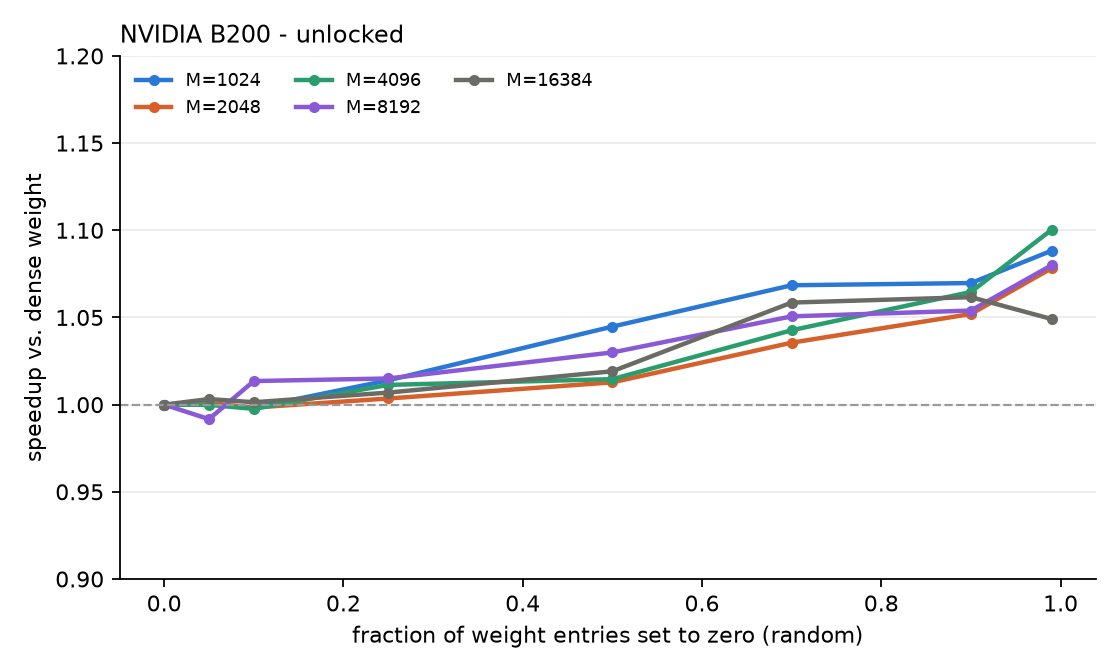
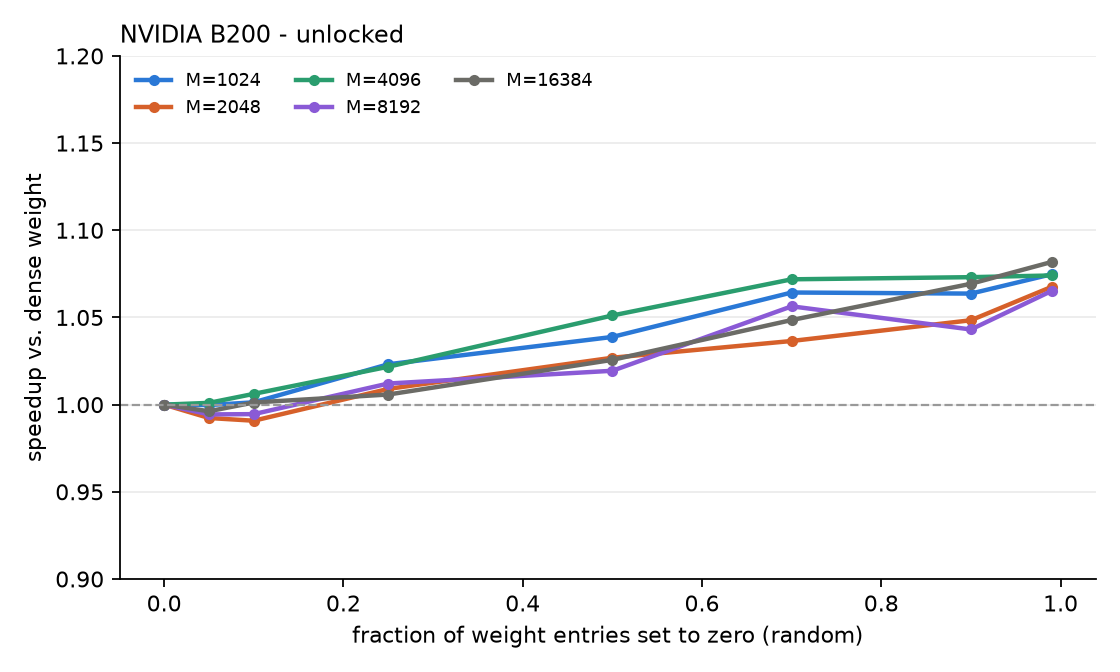
Post: update tables and numbers for exact-sparsity rerun

Changed region(s): [[0.1562, 0.3438, 0.9688, 0.6562]]

diff --git a/_posts/2026-10-02-sparse-matmul-speedup.md b/_posts/2026-10-02-sparse-matmul-speedup.md
@@ -22,7 +22,7 @@ _The code and raw results are available [here](https://github.com/GeometricAGI/b
 ### Setup
 
 - `x @ w` in bf16 with `w` of shape 8192x8192 and `x` of shape `M x 8192`, run with plain `torch.matmul` (cuBLAS). No sparse kernels are involved; the zeros are stored densely.
-- We set a fraction of `w` to zero (5%, 10%, 25%, 50%, 70%, 90%, 99%), chosen uniformly at random. Pruning by magnitude instead gives similar numbers and is in the repo. Everything below is "speedup over the dense weight", i.e. dense time divided by time with zeros, so values above 1.000 mean faster than dense.
+- We set exactly that fraction of `w` to zero (5%, 10%, 25%, 50%, 70%, 90%, 99%), at positions chosen uniformly at random; the measured zero fraction matches to within 2e-7 and is stored in the results. Magnitude pruning (zeroing the smallest-magnitude weights) is also in the repo; it agrees at 99% zeros, but at 5% it is consistently faster than random zeroing on both GPUs (about 1.05-1.10x), which we have not explained, so we only tabulate random zeroing here. Everything below is "speedup over the dense weight", i.e. dense time divided by time with zeros, so values above 1.000 mean faster than dense.
 - Matmuls are captured in a CUDA graph and timed over replays. Every config is timed in 5 interleaved rounds (alternating order) and we report the median, so drift hits every config equally.
 - `M` is swept over 1024, 2048, 4096, 8192 and 16384. In an exploratory run on the H100 with smaller `M` (1, 16 and 128 rows) the matmul is memory-bound and sparsity made no difference (within 0.5%), so we start the published sweep at 1024.
 - Each GPU is run with free-running clocks and with the SM clock locked (`nvidia-smi -lgc`) at six values: 1000, 1200, 1400, 1600, 1800 MHz and the GPU's maximum (1980 MHz on the H100, 1965 MHz on the B200).
@@ -33,16 +33,16 @@ Speedup with 99% of the weights zeroed, free-running clocks:
 
 | | M=1024 | M=2048 | M=4096 | M=8192 | M=16384 |
 |---|---|---|---|---|---|
-| H100 | 1.184 | 1.113 | 1.104 | 1.077 | 1.129 |
-| B200 | 1.088 | 1.078 | 1.100 | 1.080 | 1.049 |
+| H100 | 1.206 | 1.149 | 1.112 | 1.092 | 1.111 |
+| B200 | 1.075 | 1.068 | 1.074 | 1.065 | 1.082 |
 
 ![H100, free-running clocks](/assets/sparse-matmul-speedup/h100-unlocked.png)
 
 ![B200, free-running clocks](/assets/sparse-matmul-speedup/b200-unlocked.png)
 
-- Speedup generally grows with the amount of zeros, up to about **1.18x on the H100 and 1.12x on the B200**.
-- At realistic sparsity (5-25%) the effect is mostly inside the run-to-run noise. On the H100 at `M=16384`, 5-50% zeros was 3-6% **slower** than dense.
-- The curves are noisy, so treat differences of a few percent between neighbouring points as noise.
+- Speedup generally grows with the amount of zeros, up to about **1.21x on the H100 and 1.08x on the B200**.
+- At realistic sparsity (5-25%) the effect is mostly inside the run-to-run noise. On the H100 at `M=16384`, 5-50% zeros was 3-7% **slower** than dense.
+- Differences of a couple of percent between neighbouring points are within run-to-run noise.
 
 ### Locked clocks: the speedup depends on the lock
 
@@ -52,33 +52,32 @@ Speedup with 99% zeros for each locked SM clock (the first row is the free-runni
 
 | SM clock | M=1024 | M=2048 | M=4096 | M=8192 | M=16384 |
 |---|---|---|---|---|---|
-| free-running | 1.184 | 1.113 | 1.104 | 1.077 | 1.129 |
-| 1000 MHz | 1.000 | 1.000 | 1.000 | 1.000 | 1.000 |
+| free-running | 1.206 | 1.149 | 1.112 | 1.092 | 1.111 |
+| 1000 MHz | 1.000 | 1.000 | 1.000 | 1.000 | 1.001 |
 | 1200 MHz | 1.000 | 1.001 | 1.000 | 1.000 | 1.000 |
-| 1400 MHz | 1.001 | 1.016 | 1.076 | 1.022 | 1.048 |
-| 1600 MHz | 1.165 | 1.147 | 1.116 | 1.100 | 1.157 |
-| 1800 MHz | 1.157 | 1.124 | 1.112 | 1.108 | 1.159 |
-| 1980 MHz | 1.163 | 1.145 | 1.113 | 1.108 | 1.142 |
+| 1400 MHz | 1.000 | 1.001 | 1.024 | 1.001 | 1.050 |
+| 1600 MHz | 1.175 | 1.152 | 1.136 | 1.120 | 1.162 |
+| 1800 MHz | 1.196 | 1.147 | 1.122 | 1.113 | 1.162 |
+| 1980 MHz | 1.189 | 1.155 | 1.139 | 1.101 | 1.160 |
 
 **B200**
 
 | SM clock | M=1024 | M=2048 | M=4096 | M=8192 | M=16384 |
 |---|---|---|---|---|---|
-| free-running | 1.088 | 1.078 | 1.100 | 1.080 | 1.049 |
-| 1000 MHz | 1.004 | 1.007 | 1.000 | 1.003 | 1.003 |
-| 1200 MHz | 1.002 | 1.002 | 1.026 | 1.021 | 1.029 |
-| 1400 MHz | 1.063 | 1.068 | 1.067 | 1.064 | 1.064 |
-| 1600 MHz | 1.068 | 1.090 | 1.069 | 1.050 | 1.078 |
-| 1800 MHz | 1.044 | 1.064 | 1.082 | 1.068 | 1.073 |
-| 1965 MHz | 1.081 | 1.071 | 1.068 | 1.071 | 1.076 |
+| free-running | 1.075 | 1.068 | 1.074 | 1.065 | 1.082 |
+| 1000 MHz | 1.012 | 1.008 | 1.006 | 1.001 | 0.999 |
+| 1200 MHz | 1.002 | 1.003 | 1.000 | 1.001 | 1.000 |
+| 1400 MHz | 1.044 | 1.063 | 1.051 | 1.070 | 1.099 |
+| 1600 MHz | 1.063 | 1.085 | 1.097 | 1.068 | 1.075 |
+| 1800 MHz | 1.099 | 1.069 | 1.072 | 1.090 | 1.053 |
+| 1965 MHz | 1.109 | 1.076 | 1.083 | 1.100 | 1.072 |
 
 ![H100, speedup vs. locked clock](/assets/sparse-matmul-speedup/h100-clock_sweep.png)
 
 ![B200, speedup vs. locked clock](/assets/sparse-matmul-speedup/b200-clock_sweep.png)
 
-- **Low locks: no effect.** At 1000 and 1200 MHz the H100 is within 0.1% of dense for every `M` and every sparsity level. The B200 is within 0.7% at 1000 MHz. The GPU holds the requested clock, so the work takes the same time whatever is in the weights.
-- **High locks: the speedup comes back.** On the H100 it is partly back at 1400 MHz (1.00-1.08x) and fully back, at its free-running size, from 1600 MHz up. On the B200 it is back from 1400 MHz. Above that the lock stops being the binding constraint: dense runs reach only 1260-1400 MHz on the H100 and 1155-1400 MHz on the B200 no matter how high we set the lock, because the power limit decides the clock. Sparser weights draw less power, so they sustain a somewhat higher clock.
-- **B200 at 1200 MHz is in between.** Speedup is 1.00-1.03x for the larger shapes, so this lock sits right at the edge of what it can sustain.
+- **Low locks: no effect.** At 1000 and 1200 MHz the H100 is within 0.1% of dense for every `M` and every sparsity level. The B200 is within 1.2% at 1000 MHz and 0.3% at 1200 MHz. The GPU holds the requested clock, so the work takes the same time whatever is in the weights.
+- **High locks: the speedup comes back.** On the H100 it is partly back at 1400 MHz (1.00-1.05x) and fully back, at its free-running size, from 1600 MHz up. On the B200 it is back from 1400 MHz. Above that the lock stops being the binding constraint: dense runs reach only 1260-1410 MHz on the H100 and 1155-1402 MHz on the B200 no matter how high we set the lock, because the power limit decides the clock. Sparser weights draw less power, so they sustain a somewhat higher clock.
 - A clock lock is therefore only a control if it is set below the clock the GPU would sustain at its power limit for that workload.
 
 ### Full results
@@ -89,11 +88,11 @@ The tables below give the speedup for every `M` and sparsity level for each cloc
 
 | M | 5% | 10% | 25% | 50% | 70% | 90% | 99% |
 |---|---|---|---|---|---|---|---|
-| 1024 | 1.028 | 1.032 | 1.040 | 1.083 | 1.126 | 1.171 | 1.184 |
-| 2048 | 0.991 | 0.988 | 0.993 | 1.001 | 1.032 | 1.102 | 1.113 |
-| 4096 | 0.998 | 0.987 | 0.962 | 0.992 | 1.013 | 1.066 | 1.104 |
-| 8192 | 0.995 | 0.986 | 1.005 | 1.011 | 1.045 | 1.091 | 1.077 |
-| 16384 | 0.965 | 0.944 | 0.944 | 0.967 | 1.021 | 1.089 | 1.129 |
+| 1024 | 1.033 | 1.033 | 1.058 | 1.109 | 1.158 | 1.187 | 1.206 |
+| 2048 | 0.992 | 0.992 | 1.001 | 1.027 | 1.056 | 1.115 | 1.149 |
+| 4096 | 0.990 | 0.987 | 0.992 | 0.992 | 1.017 | 1.099 | 1.112 |
+| 8192 | 1.007 | 1.000 | 1.018 | 1.022 | 1.029 | 1.086 | 1.092 |
+| 16384 | 0.942 | 0.926 | 0.928 | 0.969 | 1.001 | 1.083 | 1.111 |
 
 </details>
 
@@ -101,11 +100,11 @@ The tables below give the speedup for every `M` and sparsity level for each cloc
 
 | M | 5% | 10% | 25% | 50% | 70% | 90% | 99% |
 |---|---|---|---|---|---|---|---|
-| 1024 | 1.000 | 1.000 | 1.000 | 1.000 | 1.000 | 1.000 | 1.000 |
+| 1024 | 1.000 | 1.000 | 1.000 | 1.000 | 1.000 | 1.001 | 1.000 |
 | 2048 | 1.000 | 1.000 | 1.000 | 1.000 | 1.000 | 1.000 | 1.000 |
 | 4096 | 1.000 | 1.000 | 1.000 | 1.000 | 1.000 | 1.000 | 1.000 |
 | 8192 | 1.000 | 1.000 | 1.000 | 1.000 | 1.000 | 1.000 | 1.000 |
-| 16384 | 1.000 | 1.000 | 0.999 | 0.999 | 1.000 | 1.000 | 1.000 |
+| 16384 | 1.000 | 1.000 | 1.000 | 1.001 | 1.000 | 1.001 | 1.001 |
 
 </details>
 
@@ -113,11 +112,11 @@ The tables below give the speedup for every `M` and sparsity level for each cloc
 
 | M | 5% | 10% | 25% | 50% | 70% | 90% | 99% |
 |---|---|---|---|---|---|---|---|
-| 1024 | 1.000 | 0.999 | 1.000 | 1.000 | 1.000 | 1.000 | 1.000 |
-| 2048 | 1.000 | 1.000 | 1.000 | 1.000 | 1.000 | 1.000 | 1.001 |
+| 1024 | 1.000 | 1.000 | 1.000 | 1.000 | 1.000 | 1.001 | 1.000 |
+| 2048 | 1.001 | 1.001 | 1.001 | 1.001 | 1.001 | 1.001 | 1.001 |
 | 4096 | 1.000 | 1.000 | 1.000 | 1.000 | 1.000 | 1.000 | 1.000 |
 | 8192 | 1.000 | 1.000 | 1.000 | 1.000 | 1.000 | 1.000 | 1.000 |
-| 16384 | 1.000 | 1.000 | 1.000 | 1.000 | 1.000 | 1.000 | 1.000 |
+| 16384 | 1.000 | 1.000 | 1.000 | 1.000 | 1.000 | 1.001 | 1.000 |
 
 </details>
 
@@ -125,11 +124,11 @@ The tables below give the speedup for every `M` and sparsity level for each cloc
 
 | M | 5% | 10% | 25% | 50% | 70% | 90% | 99% |
 |---|---|---|---|---|---|---|---|
-| 1024 | 1.000 | 1.001 | 0.997 | 1.000 | 1.001 | 1.001 | 1.001 |
-| 2048 | 1.016 | 1.012 | 1.011 | 1.016 | 1.016 | 1.016 | 1.016 |
-| 4096 | 1.049 | 1.075 | 1.075 | 1.075 | 1.076 | 1.076 | 1.076 |
-| 8192 | 1.021 | 1.018 | 1.016 | 1.010 | 1.022 | 1.022 | 1.022 |
-| 16384 | 1.011 | 1.016 | 1.030 | 0.998 | 1.034 | 1.048 | 1.048 |
+| 1024 | 1.000 | 1.000 | 1.000 | 1.000 | 1.000 | 1.001 | 1.000 |
+| 2048 | 0.998 | 0.998 | 0.999 | 1.000 | 1.001 | 1.001 | 1.001 |
+| 4096 | 1.024 | 1.024 | 1.024 | 1.024 | 1.024 | 1.024 | 1.024 |
+| 8192 | 1.001 | 1.001 | 1.001 | 1.001 | 1.001 | 1.001 | 1.001 |
+| 16384 | 1.016 | 1.027 | 1.035 | 1.004 | 1.044 | 1.051 | 1.050 |
 
 </details>
 
@@ -137,11 +136,11 @@ The tables below give the speedup for every `M` and sparsity level for each cloc
 
 | M | 5% | 10% | 25% | 50% | 70% | 90% | 99% |
 |---|---|---|---|---|---|---|---|
-| 1024 | 0.992 | 1.009 | 1.012 | 1.058 | 1.103 | 1.131 | 1.165 |
-| 2048 | 1.006 | 0.991 | 0.997 | 1.035 | 1.061 | 1.120 | 1.147 |
-| 4096 | 0.981 | 0.996 | 0.990 | 1.000 | 1.026 | 1.089 | 1.116 |
-| 8192 | 0.998 | 0.968 | 0.987 | 1.010 | 1.050 | 1.106 | 1.100 |
-| 16384 | 0.967 | 0.954 | 0.953 | 0.971 | 1.033 | 1.101 | 1.157 |
+| 1024 | 1.012 | 1.012 | 1.024 | 1.061 | 1.130 | 1.158 | 1.175 |
+| 2048 | 0.998 | 0.985 | 0.991 | 1.018 | 1.039 | 1.129 | 1.152 |
+| 4096 | 0.990 | 0.984 | 0.993 | 1.011 | 1.038 | 1.130 | 1.136 |
+| 8192 | 0.997 | 0.989 | 1.002 | 1.013 | 1.055 | 1.123 | 1.120 |
+| 16384 | 0.969 | 0.956 | 0.956 | 0.991 | 1.028 | 1.129 | 1.162 |
 
 </details>
 
@@ -149,11 +148,11 @@ The tables below give the speedup for every `M` and sparsity level for each cloc
 
 | M | 5% | 10% | 25% | 50% | 70% | 90% | 99% |
 |---|---|---|---|---|---|---|---|
-| 1024 | 1.012 | 1.013 | 1.003 | 1.030 | 1.092 | 1.120 | 1.157 |
-| 2048 | 0.991 | 0.964 | 0.986 | 1.003 | 1.041 | 1.108 | 1.124 |
-| 4096 | 0.988 | 0.969 | 0.959 | 1.002 | 1.028 | 1.086 | 1.112 |
-| 8192 | 0.990 | 0.972 | 1.005 | 1.016 | 1.060 | 1.108 | 1.108 |
-| 16384 | 0.974 | 0.953 | 0.955 | 0.972 | 1.027 | 1.113 | 1.159 |
+| 1024 | 1.007 | 1.032 | 1.054 | 1.087 | 1.120 | 1.175 | 1.196 |
+| 2048 | 0.984 | 0.984 | 0.990 | 1.015 | 1.033 | 1.128 | 1.147 |
+| 4096 | 1.002 | 1.002 | 1.001 | 1.007 | 1.034 | 1.119 | 1.122 |
+| 8192 | 0.999 | 0.998 | 1.005 | 1.041 | 1.044 | 1.105 | 1.113 |
+| 16384 | 0.971 | 0.951 | 0.956 | 0.973 | 1.027 | 1.124 | 1.162 |
 
 </details>
 
@@ -161,11 +160,11 @@ The tables below give the speedup for every `M` and sparsity level for each cloc
 
 | M | 5% | 10% | 25% | 50% | 70% | 90% | 99% |
 |---|---|---|---|---|---|---|---|
-| 1024 | 1.001 | 1.017 | 1.020 | 1.046 | 1.101 | 1.135 | 1.163 |
-| 2048 | 0.996 | 0.994 | 0.994 | 1.020 | 1.049 | 1.118 | 1.145 |
-| 4096 | 0.988 | 0.968 | 0.981 | 1.006 | 1.045 | 1.101 | 1.113 |
-| 8192 | 0.975 | 0.987 | 0.999 | 1.006 | 1.046 | 1.107 | 1.108 |
-| 16384 | 0.955 | 0.948 | 0.948 | 0.947 | 1.030 | 1.101 | 1.142 |
+| 1024 | 1.009 | 1.021 | 1.040 | 1.085 | 1.115 | 1.163 | 1.189 |
+| 2048 | 0.993 | 0.994 | 1.002 | 1.028 | 1.045 | 1.134 | 1.155 |
+| 4096 | 1.000 | 0.991 | 0.996 | 1.006 | 1.033 | 1.115 | 1.139 |
+| 8192 | 1.014 | 1.012 | 1.020 | 1.026 | 1.061 | 1.134 | 1.101 |
+| 16384 | 0.967 | 0.947 | 0.957 | 0.977 | 1.030 | 1.119 | 1.160 |
 
 </details>
 
@@ -173,11 +172,11 @@ The tables below give the speedup for every `M` and sparsity level for each cloc
 
 | M | 5% | 10% | 25% | 50% | 70% | 90% | 99% |
 |---|---|---|---|---|---|---|---|
-| 1024 | 1.000 | 0.998 | 1.014 | 1.045 | 1.068 | 1.070 | 1.088 |
-| 2048 | 1.001 | 0.998 | 1.004 | 1.013 | 1.036 | 1.052 | 1.078 |
-| 4096 | 1.000 | 0.998 | 1.011 | 1.015 | 1.043 | 1.065 | 1.100 |
-| 8192 | 0.992 | 1.014 | 1.015 | 1.030 | 1.051 | 1.054 | 1.080 |
-| 16384 | 1.003 | 1.001 | 1.007 | 1.019 | 1.059 | 1.062 | 1.049 |
+| 1024 | 1.000 | 1.001 | 1.023 | 1.039 | 1.064 | 1.064 | 1.075 |
+| 2048 | 0.992 | 0.991 | 1.009 | 1.027 | 1.037 | 1.048 | 1.068 |
+| 4096 | 1.001 | 1.006 | 1.022 | 1.051 | 1.072 | 1.073 | 1.074 |
+| 8192 | 0.994 | 0.995 | 1.012 | 1.019 | 1.056 | 1.043 | 1.065 |
+| 16384 | 0.996 | 1.001 | 1.006 | 1.026 | 1.049 | 1.069 | 1.082 |
 
 </details>
 
@@ -185,11 +184,11 @@ The tables below give the speedup for every `M` and sparsity level for each cloc
 
 | M | 5% | 10% | 25% | 50% | 70% | 90% | 99% |
 |---|---|---|---|---|---|---|---|
-| 1024 | 1.000 | 1.001 | 1.002 | 1.002 | 1.003 | 1.004 | 1.004 |
-| 2048 | 0.999 | 1.000 | 1.001 | 1.003 | 1.005 | 1.006 | 1.007 |
-| 4096 | 0.999 | 0.999 | 0.999 | 0.999 | 0.999 | 1.000 | 1.000 |
-| 8192 | 1.000 | 1.000 | 1.001 | 1.001 | 1.002 | 1.002 | 1.003 |
-| 16384 | 0.999 | 1.000 | 1.000 | 1.003 | 1.003 | 1.003 | 1.003 |
+| 1024 | 1.000 | 1.001 | 1.001 | 1.004 | 1.007 | 1.011 | 1.012 |
+| 2048 | 1.000 | 1.000 | 1.001 | 1.002 | 1.005 | 1.008 | 1.008 |
+| 4096 | 1.000 | 1.000 | 1.001 | 1.001 | 1.003 | 1.005 | 1.006 |
+| 8192 | 1.000 | 1.000 | 1.000 | 1.001 | 1.002 | 1.001 | 1.001 |
+| 16384 | 1.000 | 1.000 | 1.000 | 1.001 | 1.001 | 0.999 | 0.999 |
 
 </details>
 
@@ -197,11 +196,11 @@ The tables below give the speedup for every `M` and sparsity level for each cloc
 
 | M | 5% | 10% | 25% | 50% | 70% | 90% | 99% |
 |---|---|---|---|---|---|---|---|
-| 1024 | 1.000 | 1.000 | 1.001 | 1.001 | 1.002 | 1.002 | 1.002 |
-| 2048 | 1.000 | 1.000 | 1.000 | 1.001 | 1.001 | 1.002 | 1.002 |
-| 4096 | 1.019 | 1.026 | 1.026 | 1.026 | 1.026 | 1.026 | 1.026 |
-| 8192 | 1.020 | 1.021 | 1.020 | 1.021 | 1.021 | 1.021 | 1.021 |
-| 16384 | 1.021 | 1.013 | 1.024 | 1.029 | 1.029 | 1.029 | 1.029 |
+| 1024 | 1.001 | 0.999 | 0.999 | 1.000 | 1.000 | 1.002 | 1.002 |
+| 2048 | 1.000 | 1.000 | 1.001 | 1.001 | 1.002 | 1.003 | 1.003 |
+| 4096 | 1.000 | 1.000 | 1.000 | 1.000 | 1.000 | 1.000 | 1.000 |
+| 8192 | 1.000 | 1.000 | 1.000 | 1.000 | 1.000 | 1.001 | 1.001 |
+| 16384 | 1.000 | 1.000 | 1.000 | 1.000 | 1.000 | 1.000 | 1.000 |
 
 </details>
 
@@ -209,11 +208,11 @@ The tables below give the speedup for every `M` and sparsity level for each cloc
 
 | M | 5% | 10% | 25% | 50% | 70% | 90% | 99% |
 |---|---|---|---|---|---|---|---|
-| 1024 | 1.001 | 1.015 | 1.040 | 1.047 | 1.062 | 1.057 | 1.063 |
-| 2048 | 1.007 | 1.004 | 1.009 | 1.042 | 1.047 | 1.059 | 1.068 |
-| 4096 | 1.017 | 1.019 | 1.020 | 1.036 | 1.088 | 1.072 | 1.067 |
-| 8192 | 1.012 | 0.992 | 1.034 | 1.027 | 1.051 | 1.059 | 1.064 |
-| 16384 | 1.001 | 0.989 | 1.008 | 1.023 | 1.043 | 1.057 | 1.064 |
+| 1024 | 1.020 | 1.041 | 1.042 | 1.042 | 1.043 | 1.044 | 1.044 |
+| 2048 | 1.017 | 1.013 | 1.019 | 1.025 | 1.043 | 1.059 | 1.063 |
+| 4096 | 0.999 | 1.000 | 1.012 | 1.019 | 1.044 | 1.068 | 1.051 |
+| 8192 | 1.022 | 1.073 | 1.029 | 1.041 | 1.068 | 1.067 | 1.070 |
+| 16384 | 1.000 | 1.005 | 1.014 | 1.022 | 1.033 | 1.054 | 1.099 |
 
 </details>
 
@@ -221,11 +220,11 @@ The tables below give the speedup for every `M` and sparsity level for each cloc
 
 | M | 5% | 10% | 25% | 50% | 70% | 90% | 99% |
 |---|---|---|---|---|---|---|---|
-| 1024 | 1.000 | 1.001 | 1.020 | 1.049 | 1.074 | 1.056 | 1.068 |
-| 2048 | 0.993 | 0.977 | 0.999 | 1.014 | 1.040 | 1.052 | 1.090 |
-| 4096 | 0.998 | 1.005 | 1.021 | 1.035 | 1.060 | 1.058 | 1.069 |
-| 8192 | 0.991 | 1.006 | 1.010 | 1.022 | 1.039 | 1.048 | 1.050 |
-| 16384 | 0.999 | 1.004 | 1.004 | 1.018 | 1.040 | 1.057 | 1.078 |
+| 1024 | 1.007 | 1.014 | 1.024 | 1.034 | 1.048 | 1.058 | 1.063 |
+| 2048 | 1.004 | 1.012 | 1.019 | 1.023 | 1.037 | 1.052 | 1.085 |
+| 4096 | 1.005 | 1.009 | 1.024 | 1.034 | 1.073 | 1.068 | 1.097 |
+| 8192 | 1.002 | 1.020 | 1.058 | 1.024 | 1.055 | 1.046 | 1.068 |
+| 16384 | 0.989 | 1.001 | 1.014 | 1.021 | 1.028 | 1.050 | 1.075 |
 
 </details>
 
@@ -233,11 +232,11 @@ The tables below give the speedup for every `M` and sparsity level for each cloc
 
 | M | 5% | 10% | 25% | 50% | 70% | 90% | 99% |
 |---|---|---|---|---|---|---|---|
-| 1024 | 1.000 | 1.005 | 1.036 | 1.051 | 1.067 | 1.077 | 1.044 |
-| 2048 | 0.996 | 0.992 | 1.008 | 1.021 | 1.043 | 1.044 | 1.064 |
-| 4096 | 1.003 | 0.992 | 1.018 | 1.027 | 1.068 | 1.065 | 1.082 |
-| 8192 | 1.016 | 1.000 | 1.028 | 1.043 | 1.057 | 1.072 | 1.068 |
-| 16384 | 0.996 | 0.999 | 1.011 | 1.020 | 1.039 | 1.058 | 1.073 |
+| 1024 | 1.002 | 1.014 | 1.017 | 1.040 | 1.049 | 1.068 | 1.099 |
+| 2048 | 1.003 | 1.004 | 1.008 | 1.011 | 1.041 | 1.068 | 1.069 |
+| 4096 | 1.000 | 1.001 | 1.015 | 1.025 | 1.050 | 1.078 | 1.072 |
+| 8192 | 1.022 | 1.018 | 1.023 | 1.038 | 1.047 | 1.064 | 1.090 |
+| 16384 | 0.988 | 0.979 | 1.010 | 1.020 | 1.057 | 1.058 | 1.053 |
 
 </details>
 
@@ -245,11 +244,11 @@ The tables below give the speedup for every `M` and sparsity level for each cloc
 
 | M | 5% | 10% | 25% | 50% | 70% | 90% | 99% |
 |---|---|---|---|---|---|---|---|
-| 1024 | 0.994 | 1.000 | 1.003 | 1.010 | 1.047 | 1.050 | 1.081 |
-| 2048 | 0.991 | 0.997 | 1.003 | 1.020 | 1.039 | 1.043 | 1.071 |
-| 4096 | 0.991 | 1.001 | 1.010 | 1.021 | 1.038 | 1.058 | 1.068 |
-| 8192 | 1.007 | 0.994 | 1.022 | 1.027 | 1.054 | 1.060 | 1.071 |
-| 16384 | 0.999 | 1.001 | 1.012 | 1.009 | 1.040 | 1.058 | 1.076 |
+| 1024 | 1.000 | 1.000 | 1.019 | 1.040 | 1.066 | 1.049 | 1.109 |
+| 2048 | 1.002 | 1.004 | 1.013 | 1.015 | 1.029 | 1.052 | 1.076 |
+| 4096 | 1.004 | 1.012 | 1.013 | 1.021 | 1.051 | 1.035 | 1.083 |
+| 8192 | 1.011 | 1.011 | 1.025 | 1.026 | 1.050 | 1.083 | 1.100 |
+| 16384 | 1.004 | 1.005 | 1.009 | 1.025 | 1.040 | 1.055 | 1.072 |
 
 </details>
 
